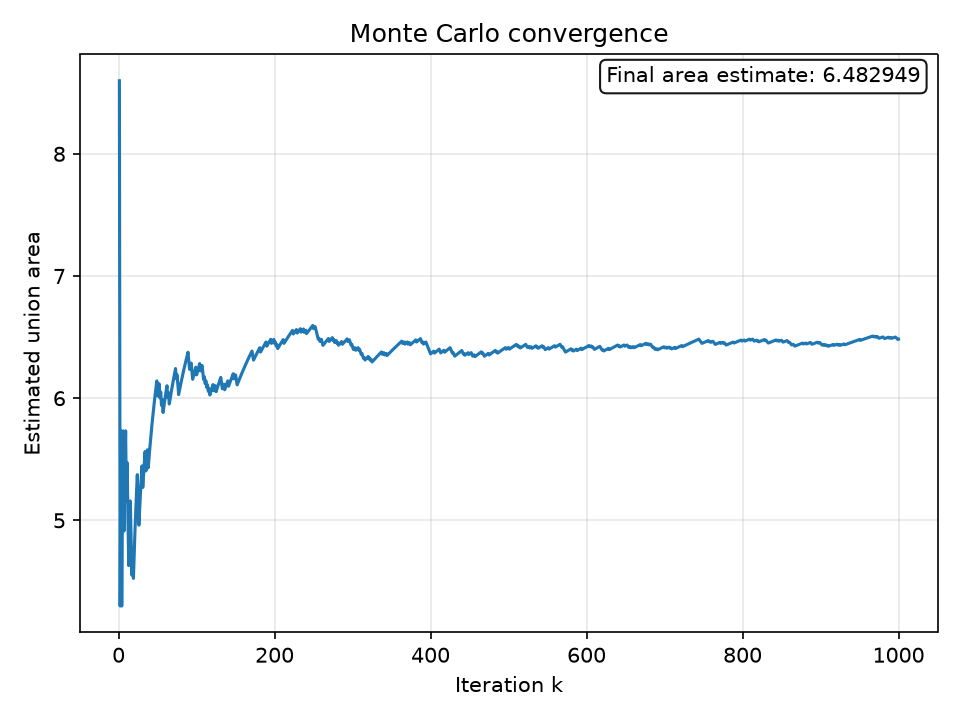
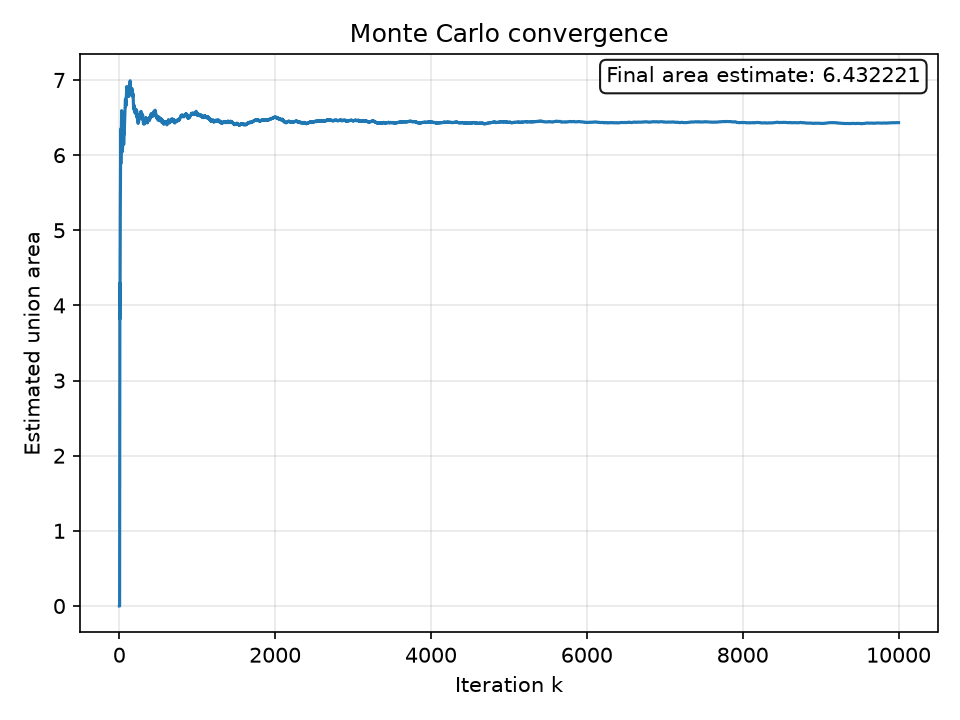
Add Monte Carlo error plots and independent-run averaging

diff --git a/EX1/monte-carlo-sim/simulation.py b/EX1/monte-carlo-sim/simulation.py
@@ -11,6 +11,7 @@ CENTERS = np.array([[0.0, 0.0], [0.5, np.sqrt(3) / 2], [-0.5, np.sqrt(3) / 2]])
 LOWER = np.array([-1.5, -1.0])
 UPPER = np.array([1.5, 1 + np.sqrt(3) / 2])
 RECTANGLE_AREA = float(np.prod(UPPER - LOWER))
+EXACT_AREA = 3 * np.pi / 2 + np.sqrt(3)
 
 
 @dataclass
@@ -89,31 +90,110 @@ def plot_convergence(result: SimulationResult):
     return fig, ax
 
 
+def plot_error(result: SimulationResult):
+    """Plot absolute error against sample count on log–log axes.
+
+    Include trailing 10-, 100-, and 500-sample means using full windows only.
+    Zero errors are masked because they cannot be represented on a log scale.
+    """
+    import matplotlib.pyplot as plt
+
+    errors = np.abs(result.estimates - EXACT_AREA)
+    fig, ax = plt.subplots()
+    n = np.arange(1, len(errors) + 1)
+    ax.loglog(n, np.ma.masked_equal(errors, 0), label="Absolute error")
+    ax.loglog(n, 1 / np.sqrt(n), "--", label=r"$1/\sqrt{n}$ reference")
+    for window in (10, 100, 500):
+        if len(errors) >= window:
+            smoothed = np.convolve(errors, np.ones(window) / window, mode="valid")
+            ax.loglog(n[window - 1:], np.ma.masked_equal(smoothed, 0),
+                      label=f"Absolute error ({window}-sample moving average)")
+    ax.legend()
+    ax.set(xlabel="Sample count n", ylabel="Absolute area error", title="Monte Carlo error")
+    ax.grid(True, which="both", alpha=0.3)
+    fig.tight_layout()
+    return fig, ax
+
+
+def simulate_average(n: int, repeats: int, seed: int | None = None):
+    """Return the first run and absolute errors from independent seeded runs."""
+    if isinstance(repeats, (bool, np.bool_)) or not isinstance(repeats, (int, np.integer)) or repeats <= 0:
+        raise ValueError("repeats must be a positive integer")
+    seeds = np.random.SeedSequence(seed).spawn(repeats)
+    first = simulate(n, seeds[0])
+    errors = np.empty((repeats, n))
+    errors[0] = np.abs(first.estimates - EXACT_AREA)
+    for i in range(1, repeats):
+        errors[i] = np.abs(simulate(n, seeds[i]).estimates - EXACT_AREA)
+    return first, errors
+
+
+def plot_average_error(errors: np.ndarray):
+    """Plot individual absolute errors and their pointwise mean on log–log axes."""
+    import matplotlib.pyplot as plt
+
+    errors = np.asarray(errors, dtype=float)
+    if errors.ndim != 2 or 0 in errors.shape or not np.isfinite(errors).all() or (errors < 0).any():
+        raise ValueError("errors must be a nonempty finite nonnegative (runs, samples) array")
+    n = np.arange(1, errors.shape[1] + 1)
+    fig, ax = plt.subplots()
+    for i, run in enumerate(errors):
+        ax.loglog(n, np.ma.masked_equal(run, 0), color="gray", alpha=0.2,
+                  linewidth=0.7, label="Individual runs" if i == 0 else None)
+    ax.loglog(n, np.ma.masked_equal(errors.mean(axis=0), 0), linewidth=2,
+              label=f"Mean absolute error ({len(errors)} runs)")
+    reference = np.sqrt(2 * EXACT_AREA * (RECTANGLE_AREA - EXACT_AREA) / (np.pi * n))
+    ax.loglog(n, reference, "--", label=r"Asymptotic MAE: $\sqrt{2a(S-a)/\pi}/\sqrt{n}$")
+    ax.set(xlabel="Sample count n", ylabel="Absolute area error",
+           title="Monte Carlo mean absolute error")
+    ax.legend()
+    ax.grid(True, which="both", alpha=0.3)
+    fig.tight_layout()
+    return fig, ax
+
+
 def main() -> None:
     parser = argparse.ArgumentParser(description=__doc__)
     parser.add_argument("n", type=int, help="positive number of samples")
     parser.add_argument("--seed", type=int, help="nonnegative random seed")
-    parser.add_argument("--output-dir", type=Path, default=Path("plots"), help="directory for geometry.png and convergence.png (default: plots/)")
+    parser.add_argument("--output-dir", type=Path, default=Path("plots"), help="directory for geometry.png, convergence.png, and error.png (default: plots/)")
     parser.add_argument("--no-show", action="store_true", help="do not open interactive figures")
+    parser.add_argument("--MLE-avg", dest="mle_avg", type=int, metavar="M",
+                        help="average absolute errors across M independent simulations; save error_avg.png")
     args = parser.parse_args()
     if args.n <= 0:
         parser.error("n must be a positive integer")
     if args.seed is not None and args.seed < 0:
         parser.error("seed must be nonnegative")
-    result = simulate(args.n, args.seed)
+    if args.mle_avg is not None and args.mle_avg <= 0:
+        parser.error("--MLE-avg must be a positive integer")
+    if args.mle_avg is None:
+        result = simulate(args.n, args.seed)
+    else:
+        result, errors = simulate_average(args.n, args.mle_avg, args.seed)
+        print(f"Mean absolute error ({args.mle_avg} runs): {errors[:, -1].mean():.6f}")
     print(f"Estimated union area: {result.estimates[-1]:.6f} ({args.n:,} samples)")
 
     import matplotlib.pyplot as plt
 
     geometry, _ = plot_geometry(result)
     convergence, _ = plot_convergence(result)
+    error, _ = plot_error(result)
     args.output_dir.mkdir(parents=True, exist_ok=True)
     geometry.savefig(args.output_dir / "geometry.png", dpi=150)
     convergence.savefig(args.output_dir / "convergence.png", dpi=150)
+    error.savefig(args.output_dir / "error.png", dpi=150)
+    average = None
+    if args.mle_avg is not None:
+        average, _ = plot_average_error(errors)
+        average.savefig(args.output_dir / "error_avg.png", dpi=150)
     if not args.no_show:
         plt.show()
+    if average is not None:
+        plt.close(average)
     plt.close(geometry)
     plt.close(convergence)
+    plt.close(error)
 
 
 if __name__ == "__main__":

diff --git a/EX1/monte-carlo-sim/test_simulation.py b/EX1/monte-carlo-sim/test_simulation.py
@@ -7,9 +7,9 @@ import numpy as np
 import pytest
 
 from simulation import (
-    CENTERS, LOWER, UPPER, RECTANGLE_AREA,
+    CENTERS, LOWER, UPPER, RECTANGLE_AREA, EXACT_AREA,
     sample_points, union_membership, running_estimates, simulate,
-    plot_geometry, plot_convergence,
+    plot_geometry, plot_convergence, plot_error, simulate_average, plot_average_error,
 )
 
 
@@ -58,9 +58,68 @@ def test_simulation():
     assert simulate(1, seed=0).estimates.shape == (1,)
 
 
+def test_error_plot():
+    result = simulate(50, seed=42)
+    result.estimates[0] = EXACT_AREA
+    fig, ax = plot_error(result)
+    assert ax.get_xscale() == ax.get_yscale() == "log"
+    line = ax.lines[0]
+    np.testing.assert_array_equal(line.get_xdata(), np.arange(1, 51))
+    reference = ax.lines[1]
+    np.testing.assert_array_equal(reference.get_xdata(), np.arange(1, 51))
+    np.testing.assert_allclose(reference.get_ydata(), 1 / np.sqrt(np.arange(1, 51)))
+    smoothed = ax.lines[2]
+    np.testing.assert_array_equal(smoothed.get_xdata(), np.arange(10, 51))
+    expected = [np.mean(np.abs(result.estimates[i - 9:i + 1] - EXACT_AREA))
+                for i in range(9, 50)]
+    np.testing.assert_allclose(smoothed.get_ydata(), expected)
+    assert ax.get_legend() is not None
+    errors = line.get_ydata()
+    assert np.ma.getmaskarray(errors)[0]
+    np.testing.assert_allclose(errors[1:], np.abs(result.estimates[1:] - EXACT_AREA))
+    plt.close(fig)
+
+
+@pytest.mark.parametrize("n", [1, 9, 10, 99, 100, 499, 500, 600])
+def test_error_plot_short_runs(n):
+    result = simulate(n, seed=42)
+    fig, ax = plot_error(result)
+    windows = [window for window in (10, 100, 500) if window <= n]
+    assert len(ax.lines) == 2 + len(windows)
+    errors = np.abs(result.estimates - EXACT_AREA)
+    for line, window in zip(ax.lines[2:], windows):
+        np.testing.assert_array_equal(line.get_xdata(), np.arange(window, n + 1))
+        expected = [errors[i - window + 1:i + 1].mean()
+                    for i in range(window - 1, n)]
+        np.testing.assert_allclose(line.get_ydata(), expected)
+    plt.close(fig)
+
+
+def test_average_error(tmp_path):
+    first, errors = simulate_average(50, 10, seed=42)
+    assert errors.shape == (10, 50)
+    np.testing.assert_allclose(errors[0], np.abs(first.estimates - EXACT_AREA))
+    np.testing.assert_array_equal(errors, simulate_average(50, 10, seed=42)[1])
+    assert not np.array_equal(errors[0], errors[1])
+    fig, ax = plot_average_error(errors)
+    assert ax.get_xscale() == ax.get_yscale() == "log"
+    np.testing.assert_allclose(ax.lines[10].get_ydata(), errors.mean(axis=0))
+    reference = np.sqrt(2 * EXACT_AREA * (RECTANGLE_AREA - EXACT_AREA)
+                        / (np.pi * np.arange(1, 51)))
+    np.testing.assert_allclose(ax.lines[11].get_ydata(), reference)
+    fig.savefig(tmp_path / "error_avg.png")
+    plt.close(fig)
+
+
+@pytest.mark.parametrize("repeats", [0, -1, True, 1.5])
+def test_invalid_repeats(repeats):
+    with pytest.raises(ValueError, match="positive integer"):
+        simulate_average(50, repeats)
+
+
 def test_figures(tmp_path):
     result = simulate(50, seed=42)
-    for plot, name in [(plot_geometry, "geometry"), (plot_convergence, "convergence")]:
+    for plot, name in [(plot_geometry, "geometry"), (plot_convergence, "convergence"), (plot_error, "error")]:
         fig, ax = plot(result)
         path = tmp_path / f"{name}.png"
         fig.savefig(path)

diff --git a/EX1/monte-carlo-sim/README.MD b/EX1/monte-carlo-sim/README.MD
@@ -31,10 +31,13 @@ $$
 \widehat{a}_k = \frac{S}{k}\sum_{i=1}^{k} f(X_i), \qquad k = 1, \ldots, n.
 $$
 
+The exact union area is $a = 3\pi/2 + \sqrt{3}$.
+
 ## Visualizations
 
 - Plot the three circles and a scatter plot of the sampled points in the rectangle, distinguishing points inside the union from those outside it.
 - Plot the running area estimate $\widehat{a}_k$ on the vertical axis against iteration $k$ on the horizontal axis.
+- Plot the absolute error $|\widehat{a}_n-a|$ against sample count $n$, with logarithmic scales on both axes and a dashed $1/\sqrt{n}$ reference curve (not an error bound). Also show trailing moving averages of the absolute errors with windows of 10, 100, and 500 samples. Each curve starts at its window size and is omitted for shorter runs. Zero errors are masked because logarithmic axes cannot display zero.
 
 ## Usage
 
@@ -45,7 +48,7 @@ uv sync
 uv run python simulation.py 10000 --seed 42
 ```
 
-The sample count must be a positive integer. The optional nonnegative `--seed` makes runs reproducible. The script prints the final area estimate, saves both plots as `plots/geometry.png` and `plots/convergence.png`, and displays them. The `plots/` directory is created automatically relative to the working directory; existing images are overwritten. Use `--output-dir` to choose another directory.
+The sample count must be a positive integer. The optional nonnegative `--seed` makes runs reproducible. The script prints the final area estimate, saves all three plots as `plots/geometry.png`, `plots/convergence.png`, and `plots/error.png`, and displays them. The `plots/` directory is created automatically relative to the working directory; existing images are overwritten. Use `--output-dir` to choose another directory.
 
 Save figures without an interactive display:
 
@@ -53,13 +56,25 @@ Save figures without an interactive display:
 MPLBACKEND=Agg uv run python simulation.py 10000 --seed 42 --output-dir figures --no-show
 ```
 
-This writes `figures/geometry.png` and `figures/convergence.png`. All samples are used for both estimation and plotting; no scatter subsampling is performed.
+This writes `figures/geometry.png`, `figures/convergence.png`, and `figures/error.png`. All samples are used for both estimation and plotting; no scatter subsampling is performed.
+
+### Averaging independent simulations
+
+```bash
+MPLBACKEND=Agg uv run python simulation.py 10000 --seed 42 --MLE-avg 10 --no-show
+```
+
+The optional `--MLE-avg M` flag runs exactly M independent simulations (M must be positive). It adds `plots/error_avg.png`: faint individual absolute-error trajectories, their pointwise mean absolute error, and the asymptotic reference $\sqrt{2a(S-a)/\pi}/\sqrt{n}$ on log–log axes. Despite the flag name, this computes MAE, not maximum likelihood. Errors are averaged after taking absolute values, not before.
+
+The usual three plots show the first run. With this flag, `--seed` reproducibly spawns independent random streams, so the first run differs from the unflagged run with the same seed. Without the flag, behavior is unchanged. The errors array uses memory proportional to M times n.
+
+`simulate_average(n, repeats, seed=None)` returns the first `SimulationResult` and an `(repeats, n)` absolute-errors array. `plot_average_error(errors)` returns a `(figure, axes)` pair.
 
 ### Python functions
 
 `simulation.py` provides `sample_points(n, seed=None)`, `union_membership(points)`, and `running_estimates(hits)` as separate computation utilities. `simulate(n, seed=None)` returns a `SimulationResult` containing `points`, `hits`, and `estimates` arrays. Importing the module does not run a simulation or open figures.
 
-`plot_geometry(result)` and `plot_convergence(result)` each return a Matplotlib `(figure, axes)` pair without displaying it.
+`plot_geometry(result)`, `plot_convergence(result)`, and `plot_error(result)` each return a Matplotlib `(figure, axes)` pair without displaying it.
 
 ```python
 from simulation import simulate, plot_convergence
